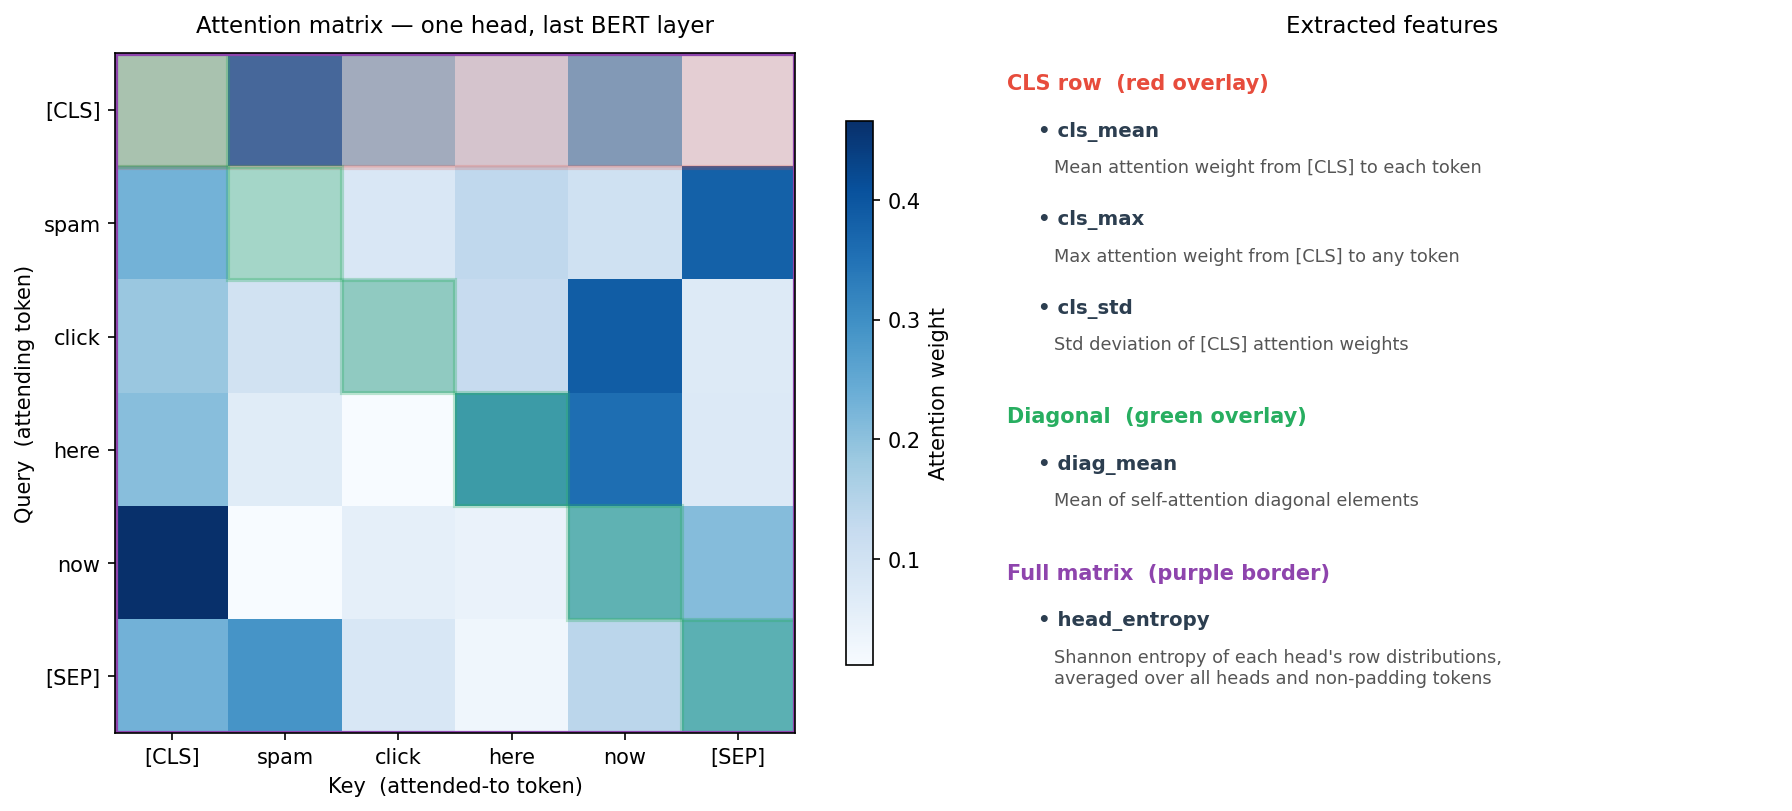
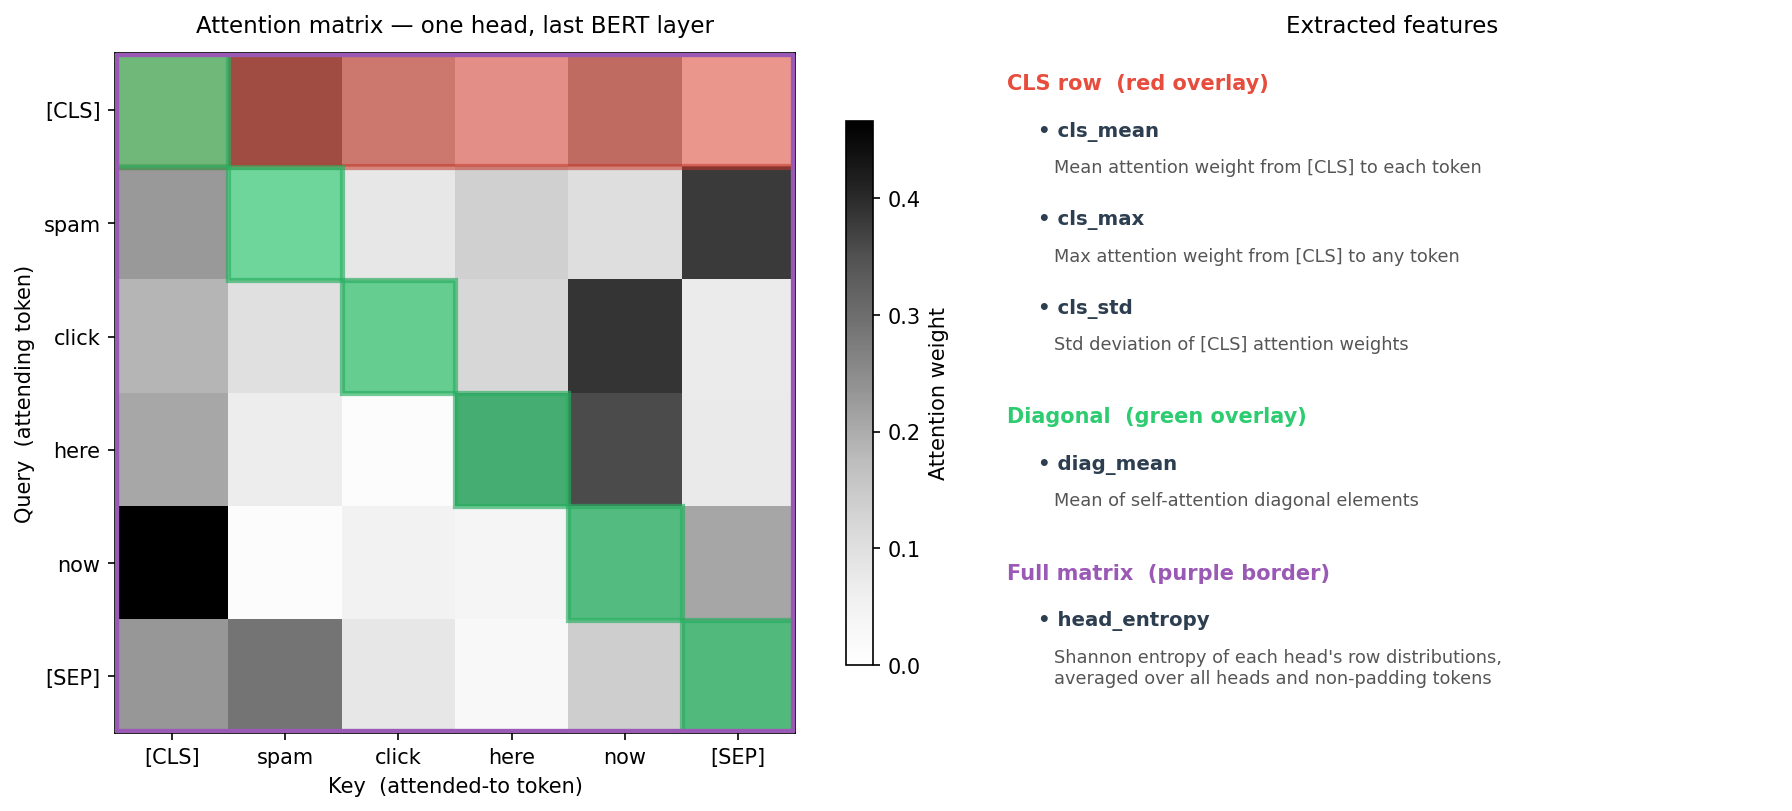
Improve feature diagram contrast: greyscale base, brighter overlays

diff --git a/plot_results.py b/plot_results.py
@@ -131,7 +131,8 @@ def plot_feature_diagram(out_path: str) -> None:
     )
 
     # ── Left: attention matrix with overlays ──────────────────────────────────
-    im = ax_mat.imshow(attn, cmap="Blues", aspect="equal")
+    # Grey base so coloured overlays are clearly distinguishable.
+    im = ax_mat.imshow(attn, cmap="Greys", aspect="equal", vmin=0)
     ax_mat.set_xticks(range(n))
     ax_mat.set_yticks(range(n))
     ax_mat.set_xticklabels(tokens, fontsize=10)
@@ -142,23 +143,23 @@ def plot_feature_diagram(out_path: str) -> None:
     plt.colorbar(im, ax=ax_mat, shrink=0.8, label="Attention weight")
 
     CLS_COLOR  = "#e74c3c"
-    DIAG_COLOR = "#27ae60"
-    ENT_COLOR  = "#8e44ad"
+    DIAG_COLOR = "#2ecc71"
+    ENT_COLOR  = "#9b59b6"
 
     # Red overlay on CLS row (row 0) → cls_mean, cls_max, cls_std
     ax_mat.add_patch(mpatches.Rectangle(
-        (-0.5, -0.5), n, 1, lw=2.5, ec=CLS_COLOR, fc=CLS_COLOR, alpha=0.2
+        (-0.5, -0.5), n, 1, lw=3, ec="#c0392b", fc=CLS_COLOR, alpha=0.55, zorder=2
     ))
 
     # Green overlay on diagonal → diag_mean
     for i in range(n):
         ax_mat.add_patch(mpatches.Rectangle(
-            (i - 0.5, i - 0.5), 1, 1, lw=2, ec=DIAG_COLOR, fc=DIAG_COLOR, alpha=0.3
+            (i - 0.5, i - 0.5), 1, 1, lw=2.5, ec="#27ae60", fc=DIAG_COLOR, alpha=0.65, zorder=2
         ))
 
     # Purple border around full matrix → head_entropy (spans all rows/heads)
     ax_mat.add_patch(mpatches.Rectangle(
-        (-0.5, -0.5), n, n, lw=2.5, ec=ENT_COLOR, fc="none"
+        (-0.5, -0.5), n, n, lw=4, ec=ENT_COLOR, fc="none", zorder=3
     ))
 
     # ── Right: feature legend ─────────────────────────────────────────────────